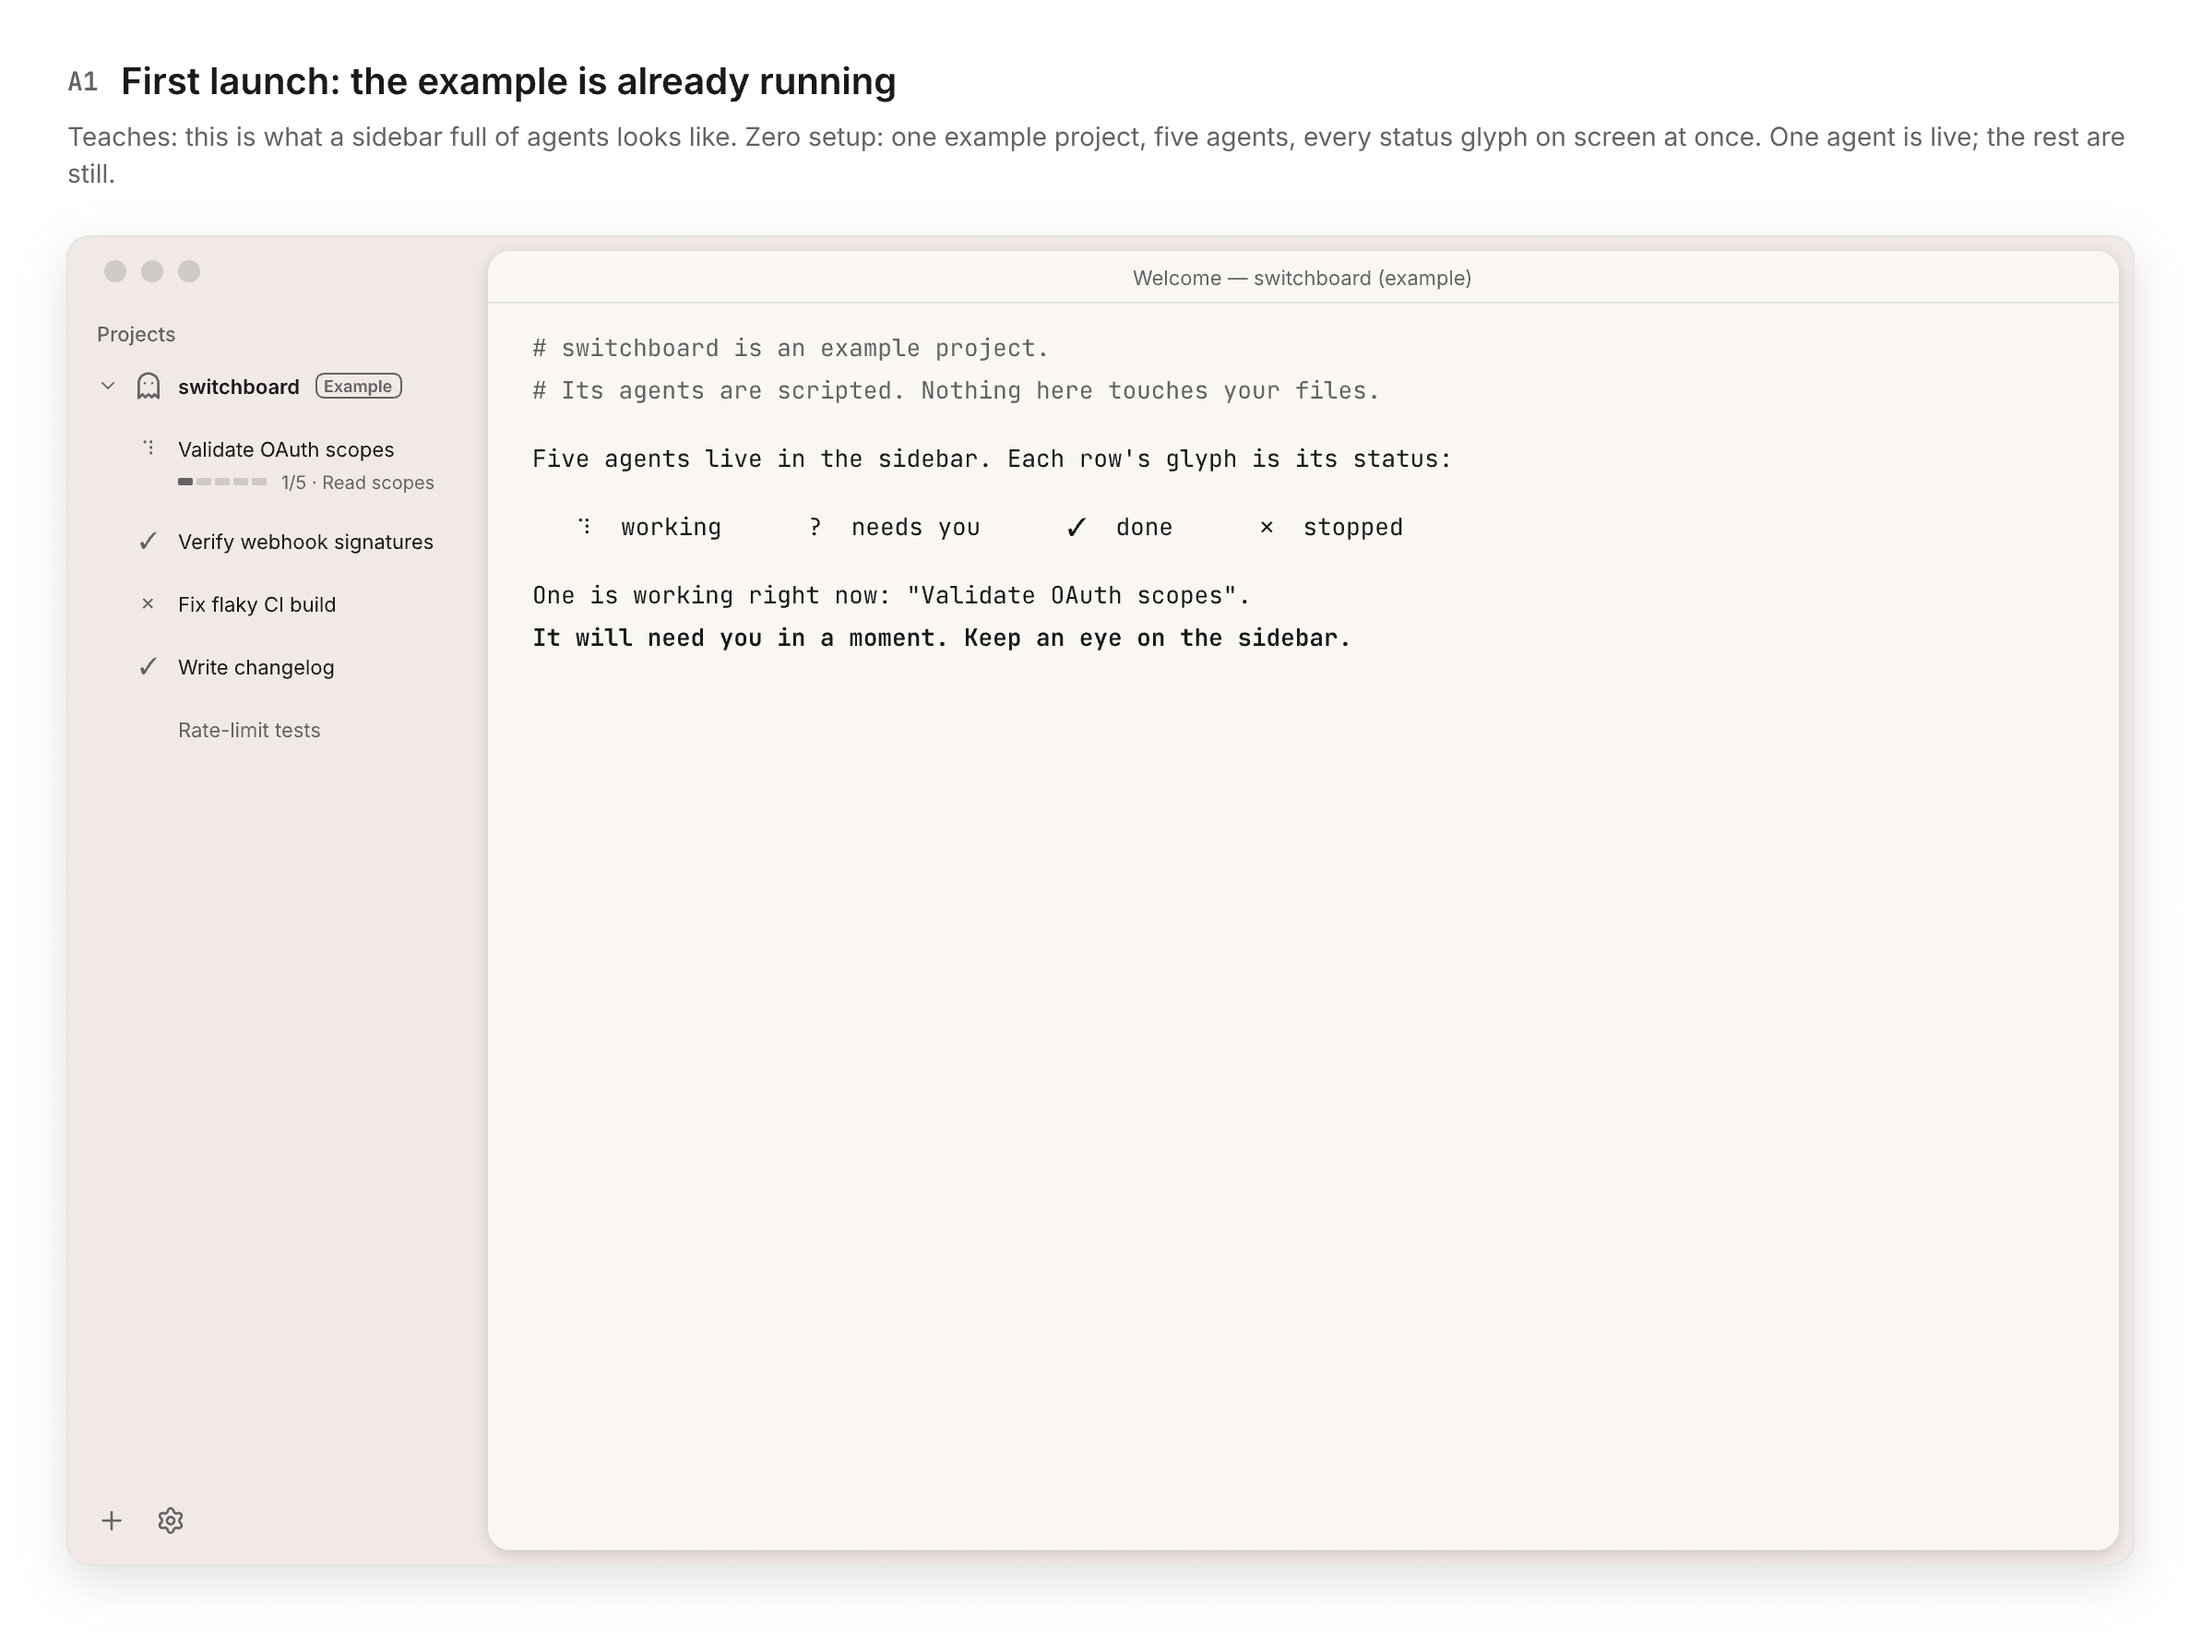
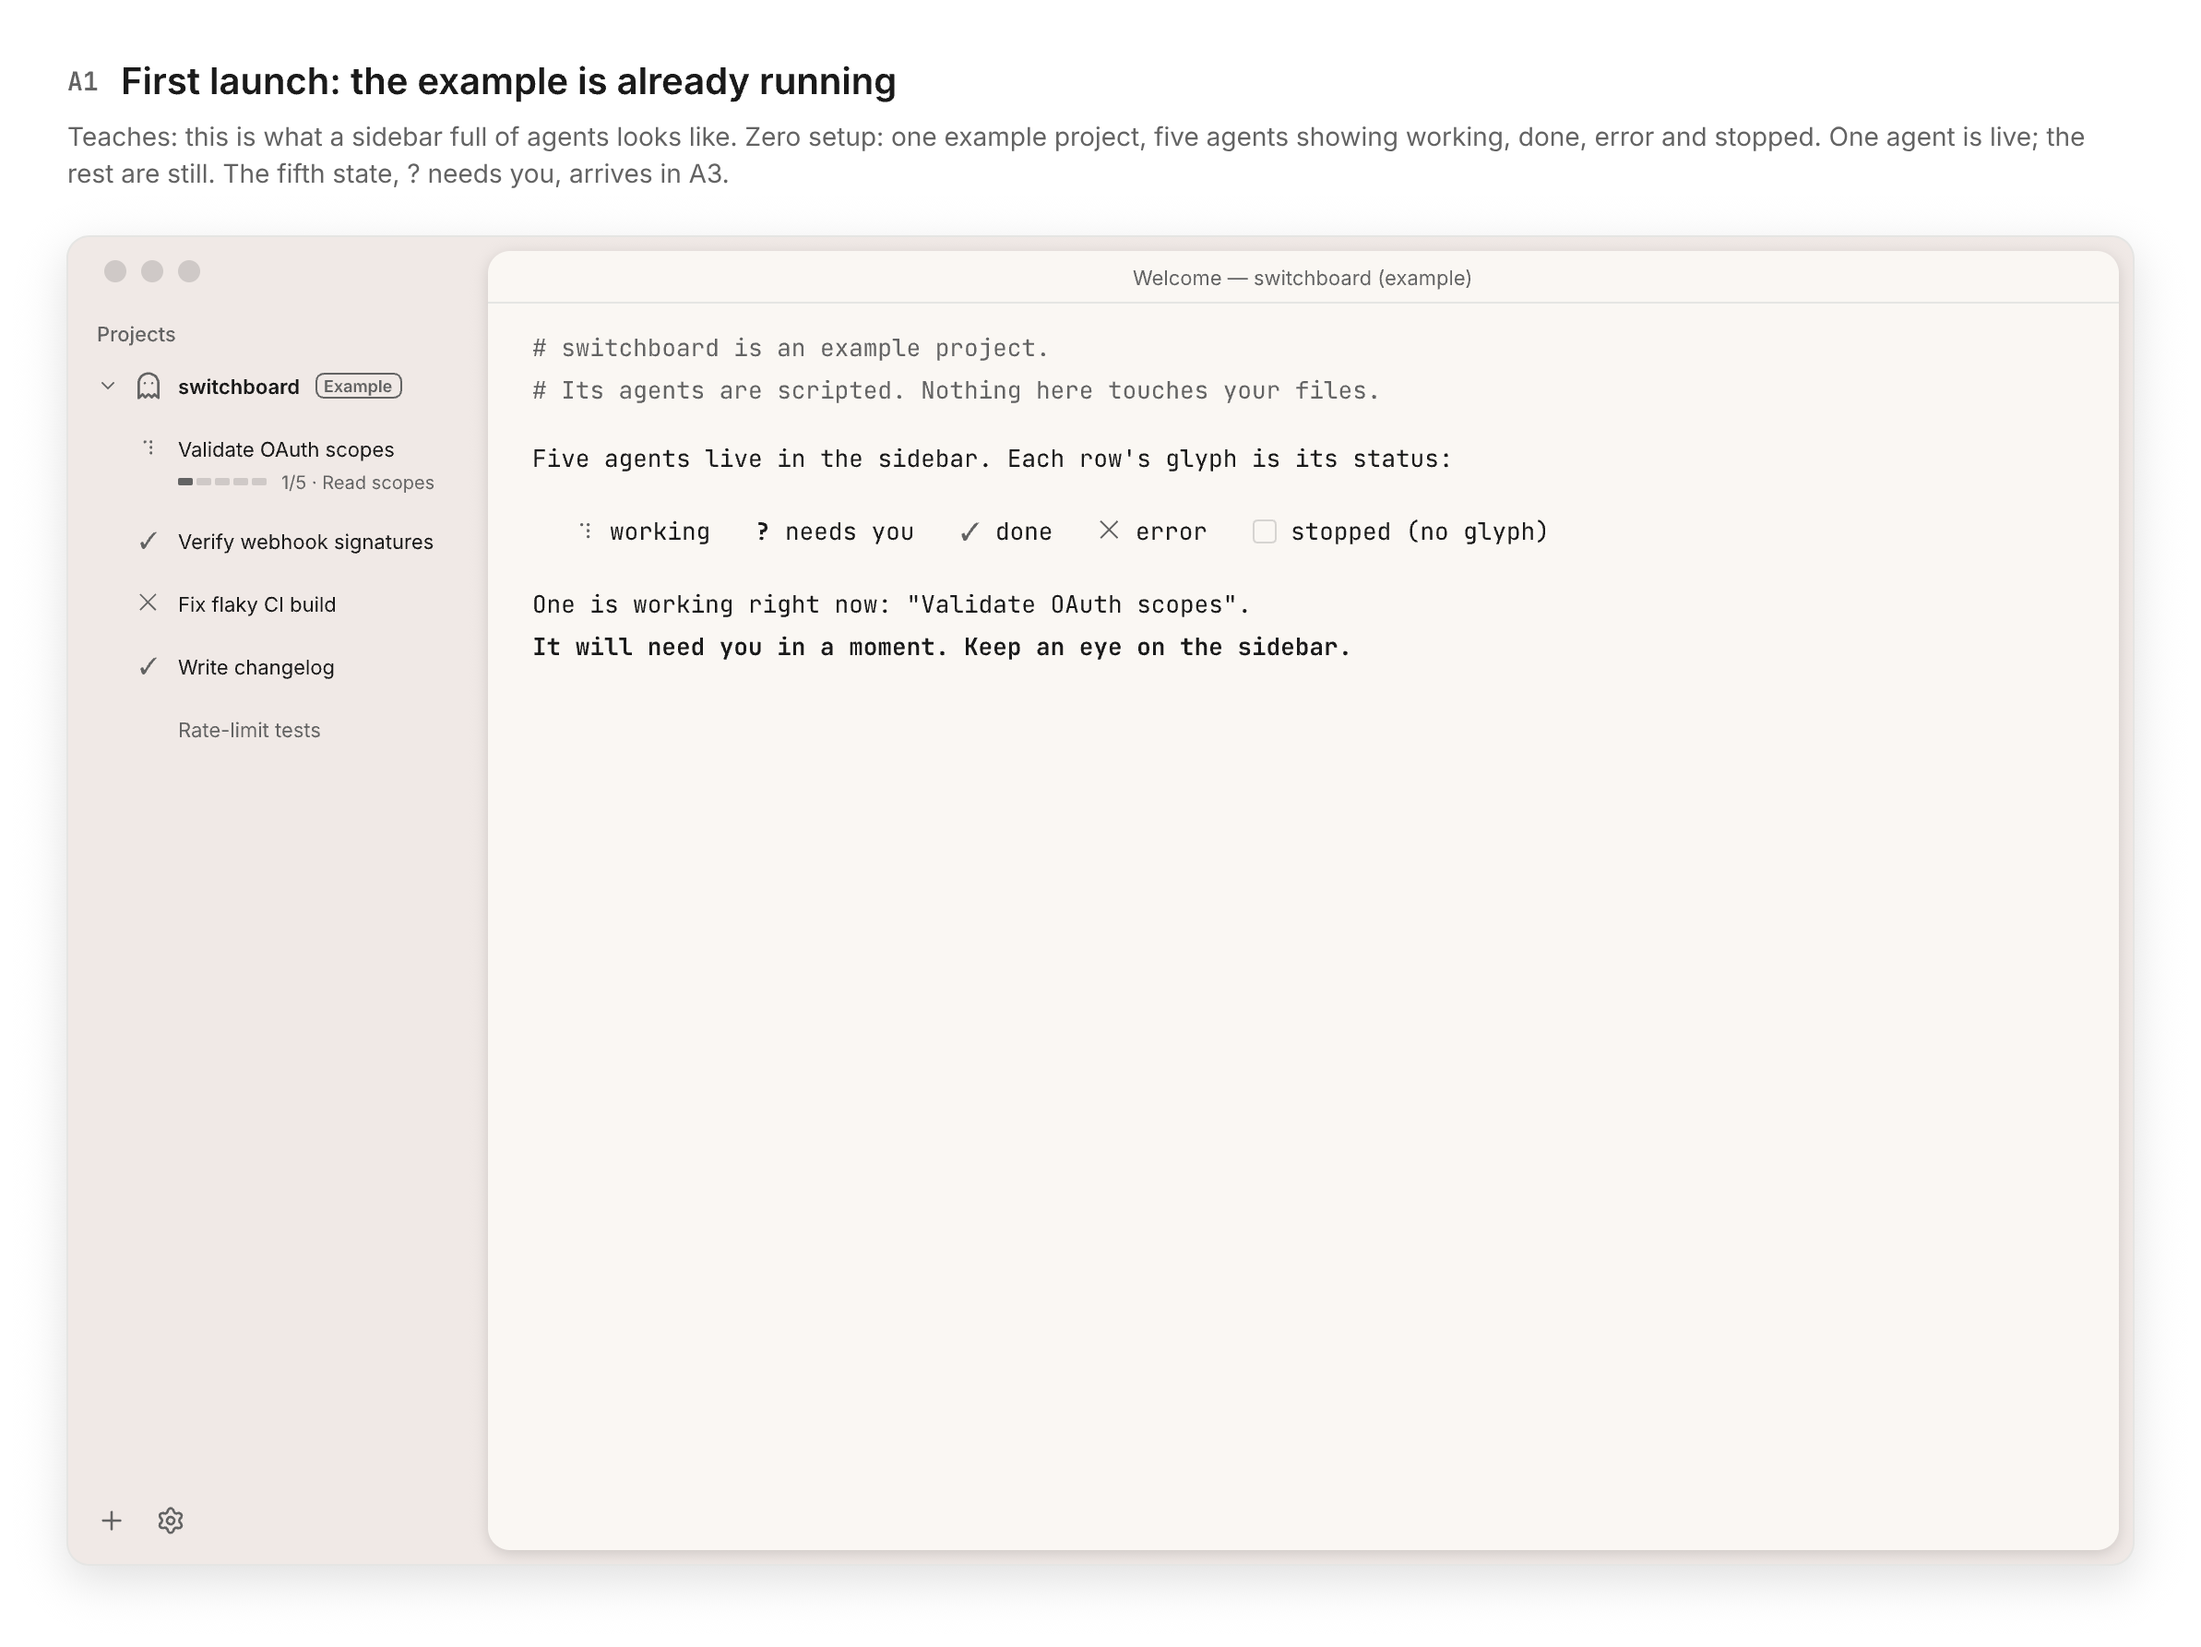
docs(design): onboarding round 2 review fixes
A1 legend matches pattern D (✕ error, no glyph stopped) and the caption
no longer claims ? is on screen; ✕ renders as ✕ in every frame; HANDOFF
marks the Show example project setting as proposed.

Claude-Session: https://claude.ai/code/session_0165Ra31HMLYemsDY6vzHXMu

diff --git a/docs/design/onboarding/HANDOFF.md b/docs/design/onboarding/HANDOFF.md
@@ -39,7 +39,7 @@ Decisions (locked by Sean):
 3. Funnel counted on-device only, nothing sent.
 
 Frames:
-- A1 first launch · A2 explore while the live agent works · A3 the agent needs you · A4 open it and answer · A5 it finishes · A6 bridge to your own project · A7 own project on top, example collapses · A8 offer to remove the example once (recommended; alternative auto-archive after 7 days, rejected as silent)
+- A1 first launch · A2 explore while the live agent works · A3 the agent needs you · A4 open it and answer · A5 it finishes · A6 bridge to your own project · A7 own project on top, example collapses · A8 offer to remove the example once (recommended; alternative auto-archive after 7 days, rejected as silent). The restore path, Settings › General › Show example project, is a proposed new setting; it does not exist yet
 - B1 mild (glyph only) · B2 question forward · B3 bolder (one-time coach mark + terracotta)
 - C funnel: `onb.demo_shown`, `onb.needs_you_shown`, `onb.needs_you_opened`, `onb.needs_you_answered`, `onb.demo_finished`, `onb.add_project_clicked`, `onb.own_project_added`, `onb.demo_dismissed` / `onb.demo_kept`
 
